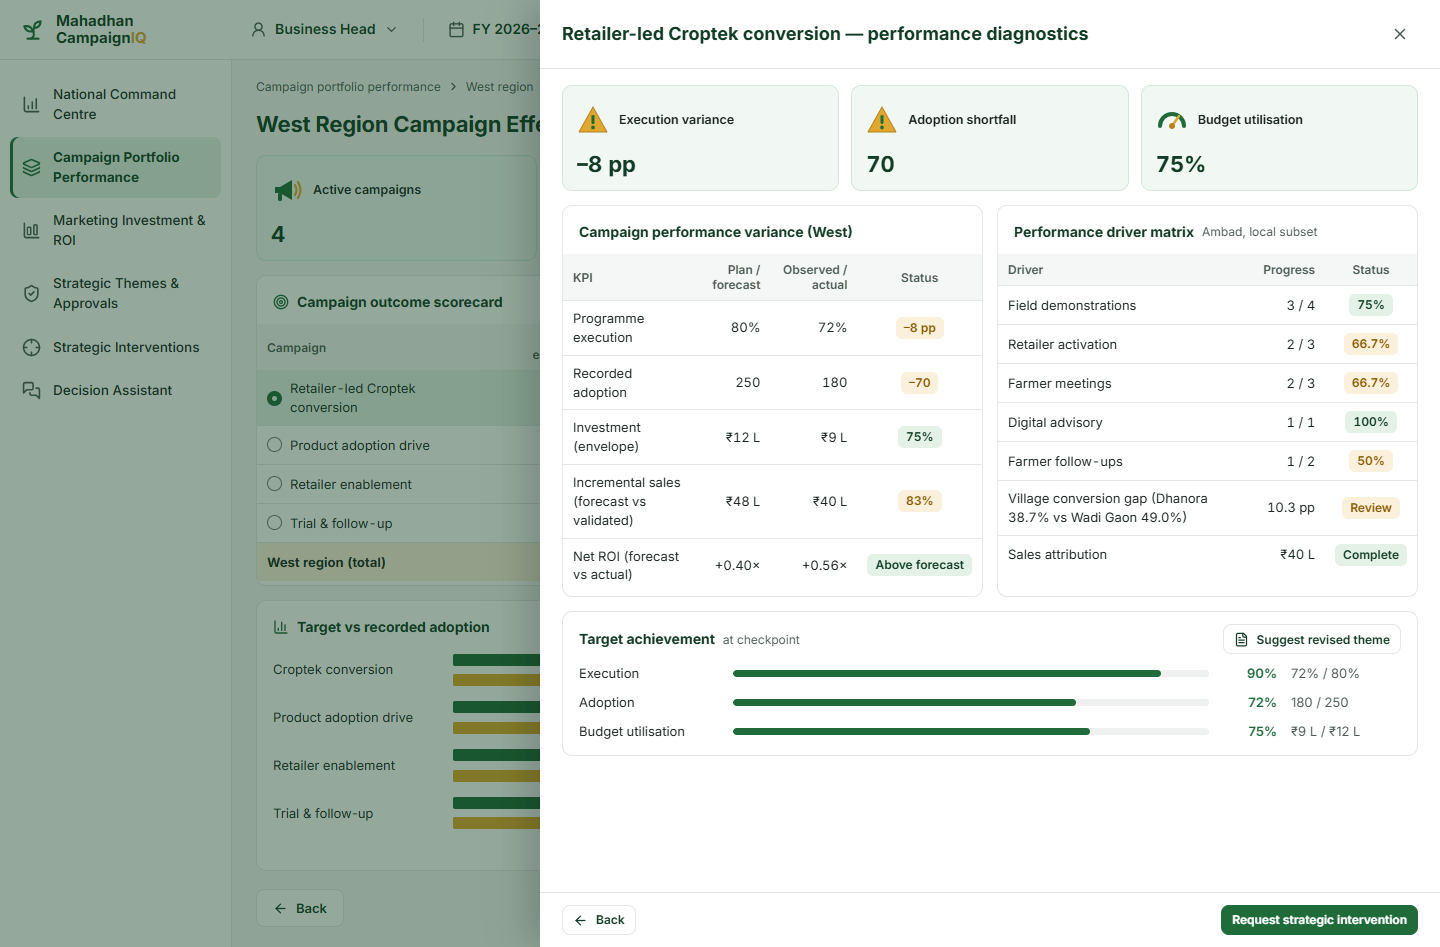
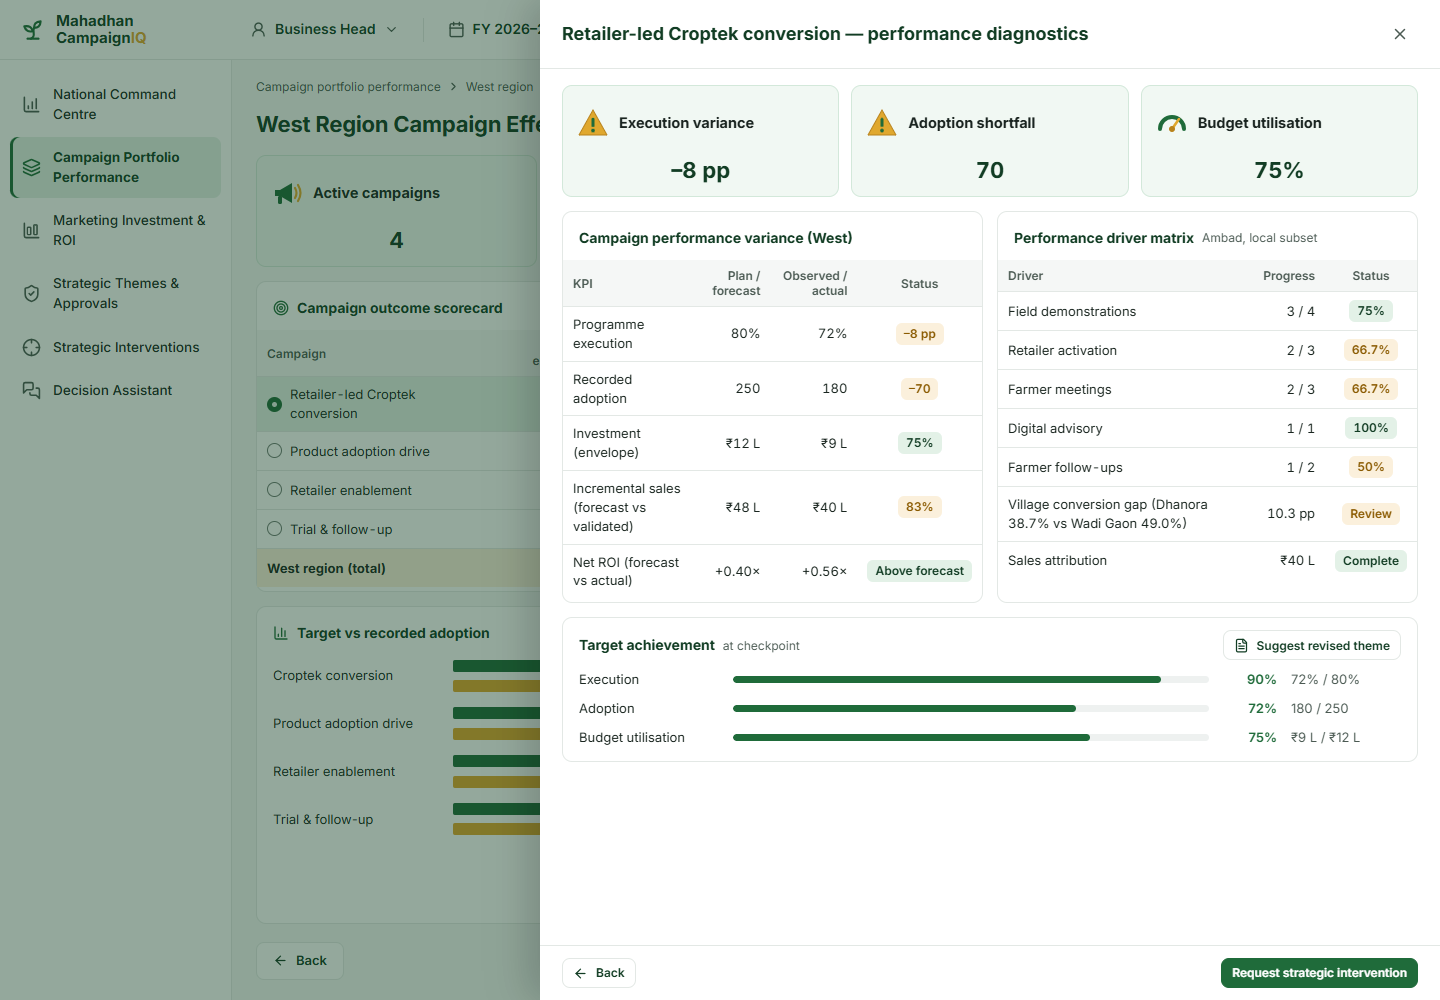
BH: KPI heading size, centred single values

diff --git a/campaigniq-v3/src/styles.css b/campaigniq-v3/src/styles.css
@@ -85,9 +85,9 @@ textarea.input { height: auto; min-height: 60px; padding: 8px 10px; resize: vert
 /* ---------- KPI (mockup layout, one value) ---------- */
 .kpis { display: grid; grid-template-columns: repeat(auto-fit, minmax(160px, 1fr)); grid-auto-columns: 1fr; grid-auto-rows: 1fr; gap: 12px; }
 .kpi { background: var(--kpi-bg); border: 1px solid var(--kpi-line); border-radius: 10px; padding: 10px 14px 12px; display: flex; flex-direction: column; justify-content: space-between; gap: 6px; min-width: 0; }
-.kpi-head { display: flex; align-items: center; gap: 10px; min-height: 48px; }
-.kpi-label { font-size: 12.5px; font-weight: 600; color: var(--kpi-ink); line-height: 1.25; display: -webkit-box; -webkit-line-clamp: 3; -webkit-box-orient: vertical; overflow: hidden; }
-.kpi-value { font-size: 22px; font-weight: 700; color: var(--dark); line-height: 28px; font-variant-numeric: tabular-nums; white-space: nowrap; overflow: hidden; text-overflow: ellipsis; }
+.kpi-head { display: flex; align-items: center; gap: 10px; min-height: 54px; }
+.kpi-label { font-size: 14.5px; font-weight: 700; color: var(--kpi-ink); line-height: 1.25; display: -webkit-box; -webkit-line-clamp: 3; -webkit-box-orient: vertical; overflow: hidden; }
+.kpi-value { display: flex; justify-content: center; text-align: center; font-size: 22px; font-weight: 700; color: var(--dark); line-height: 28px; font-variant-numeric: tabular-nums; white-space: nowrap; overflow: hidden; }
 
 /* ---------- chips, bars ---------- */
 .chip { display: inline-flex; align-items: center; gap: 4px; font-size: 12px; font-weight: 600; border-radius: 6px; padding: 2px 8px; white-space: nowrap; line-height: 1.5; }

diff --git a/campaigniq-v3/src/screens/TerritoryPerformance.tsx b/campaigniq-v3/src/screens/TerritoryPerformance.tsx
@@ -32,7 +32,7 @@ export function TerritoryPerformance() {
       <PageHeader title={`${t.name} Territory Performance`} />
       <div className="kpis">
         <KpiCard label="Territory all-product ABP" value={crore(t.abp)} />
-        <KpiCard label="Activity completion" value={pct(a.activityPct)} />
+        <KpiCard label="Activity Completed" value={pct(a.activityPct)} />
         <KpiCard label="Recorded adopters" value={num(a.adopters)} />
         <KpiCard label="Trial-to-adoption" value={pct(a.trialToAdoptionPct)} />
       </div>

diff --git a/campaigniq-v3/src/screens/RegionalPerformance.tsx b/campaigniq-v3/src/screens/RegionalPerformance.tsx
@@ -25,7 +25,7 @@ export function RegionalPerformance() {
       <div className="kpis">
         <KpiCard label="Region achievement vs YTD ABP" value={crore(r.achieved, 1)} />
         <KpiCard label="Active campaigns" value={r.campaigns} />
-        <KpiCard label="Observed execution" value={`${r.observedExec}%`} />
+        <KpiCard label="Planned Execution" value={`${r.observedExec}%`} />
         <KpiCard label="Recorded adopters" value={num(r.adopters)} />
       </div>
 
